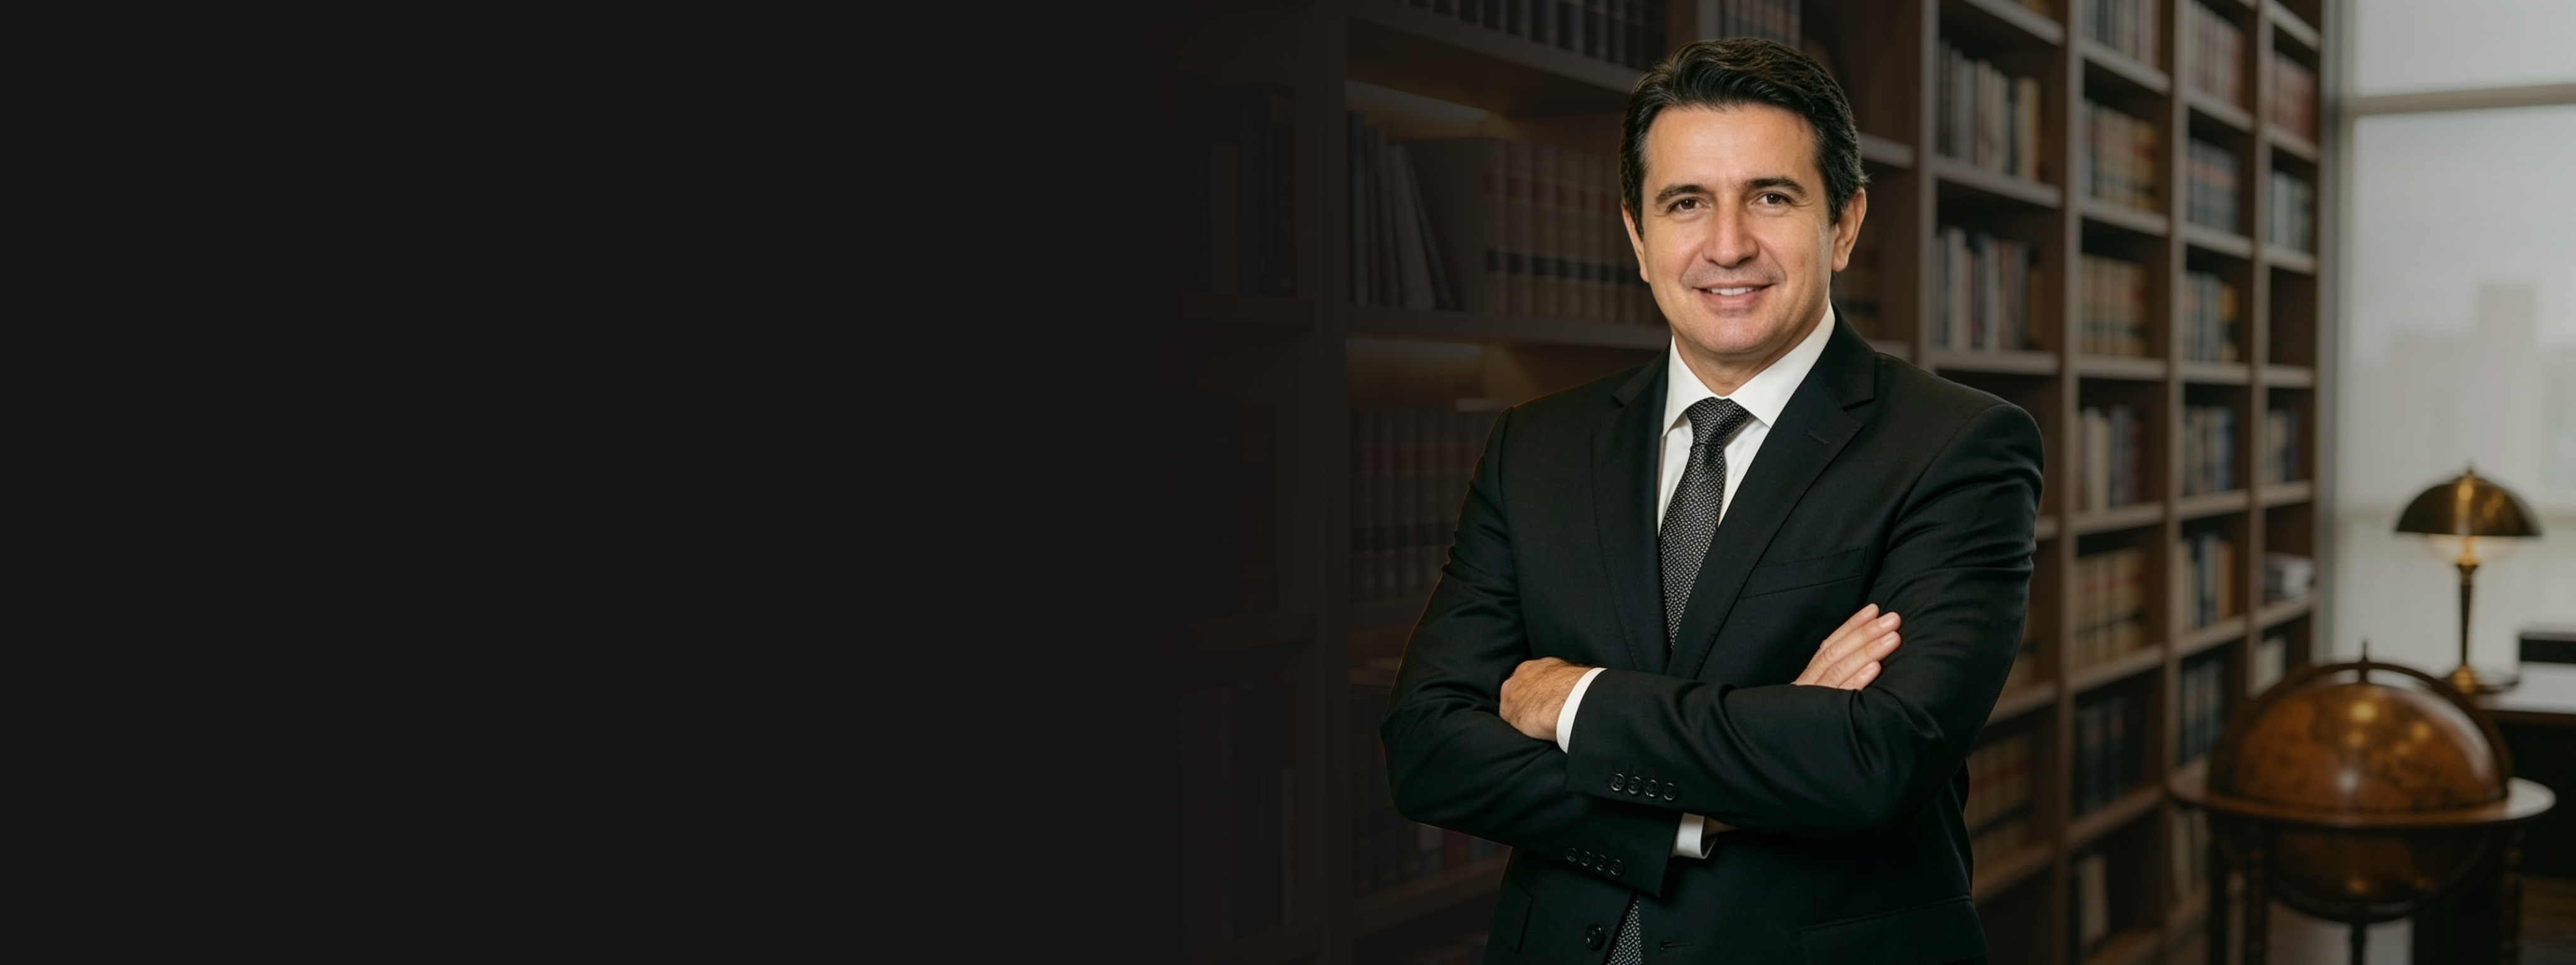
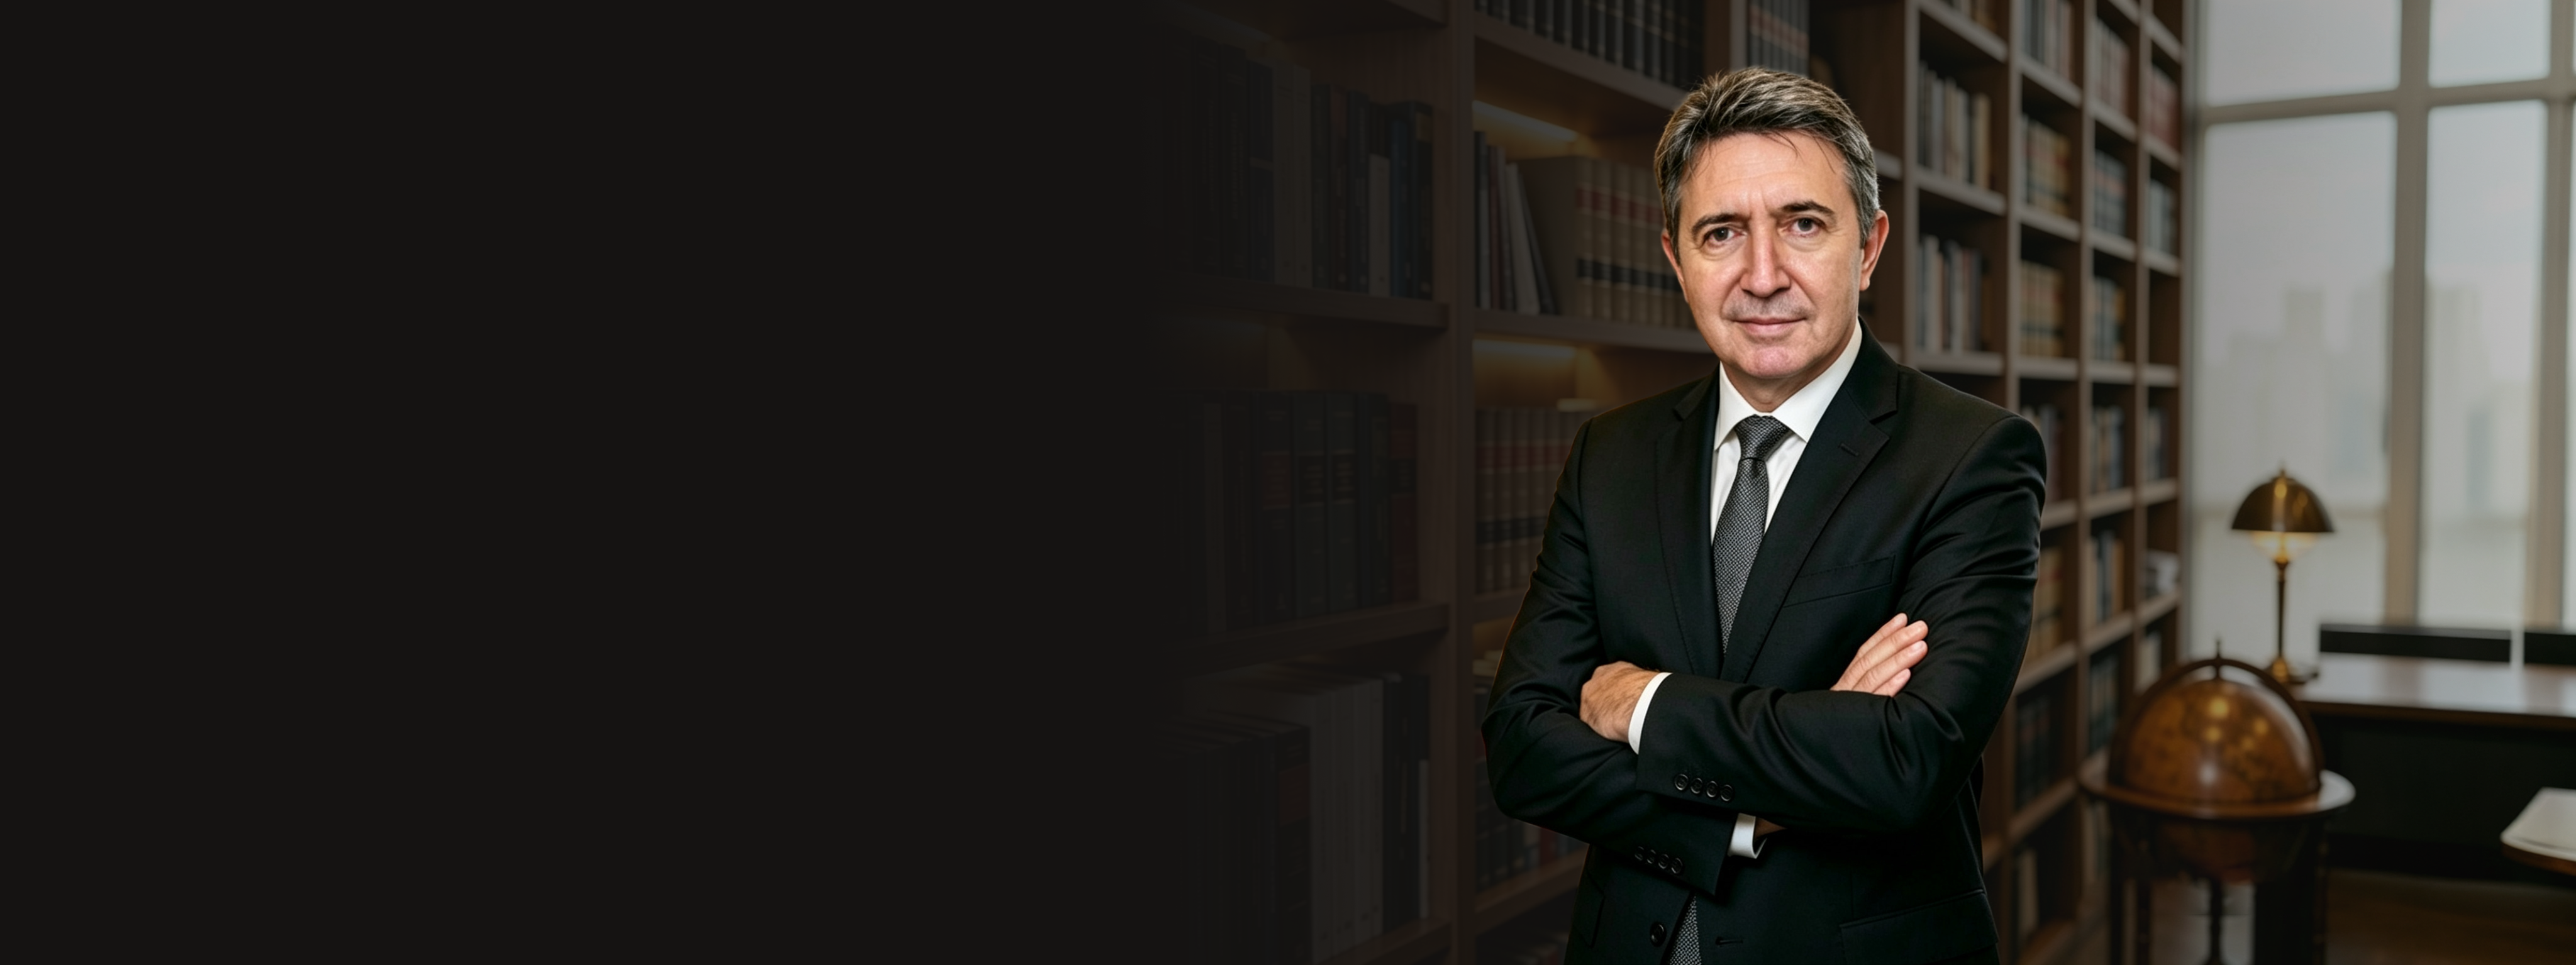
feat: atualiza imagens e adiciona foto da seção Tese
- Atualiza hero.jpg e diferenciais.jpg
- Adiciona novas imagens: tese.jpg, autor.jpg, hero2.jpg, diferenciais3.jpg
- Aponta seção Tese para img/tese.jpg
- Adiciona skill interface-design e skills-lock.json

Changed region(s): [[0.5312, 0.0, 1.0, 1.0], [0.625, 0.9492, 0.6562, 1.0], [0.6562, 0.9186, 0.6875, 0.9492]]

diff --git a/index.html b/index.html
@@ -1302,7 +1302,7 @@
   <!-- ===== TESE ===== -->
   <section id="tese">
     <div class="about-photo">
-      <img src="img/sobre.jpg" alt="Autor da tese da Perda de uma Chance">
+      <img src="img/tese.jpg" alt="Autor da tese da Perda de uma Chance">
     </div>
 
     <div class="about-content">

diff --git a/.agents/skills/interface-design/SKILL.md b/.agents/skills/interface-design/SKILL.md
@@ -1,0 +1,320 @@
+---
+name: interface-design
+description: Craft-first interface design for dashboards, admin panels, SaaS apps, tools, settings pages, data interfaces, and interactive products. Use when designing, building, reviewing, auditing, or refining product UI where visual craft, layout hierarchy, tokens, states, visual direction, or design-system consistency matter. Not for marketing pages, landing pages, campaigns, or brand-only work.
+---
+
+# Interface Design
+
+Build product interfaces with the craft of a top design team — Linear, Vercel, Stripe, Apple. The difference between those and generic output is not talent. It is that every decision was *decided*, the hierarchy is unmistakable, and a hundred small details are correct at once. This skill is how you get there.
+
+## Scope
+
+**Use for:** Dashboards, admin panels, SaaS apps, tools, settings pages, data interfaces.
+
+**Not for:** Landing pages, marketing sites, campaigns, brand-only work. Use a marketing/frontend design skill for those.
+
+This skill is self-contained: direction, visual hierarchy, design-system architecture, and the polish and motion essentials needed to ship production-grade UI all live here.
+
+---
+
+# The Problem
+
+You will generate generic output. Your training has seen thousands of dashboards, and the patterns are strong. You can follow this entire process — explore the domain, name a signature, state your intent — and still produce a template: warm colors on cold structures, friendly fonts on generic layouts.
+
+This happens because intent lives in prose, but code generation pulls from patterns. The gap between them is where defaults win. Process helps, but it doesn't guarantee craft. You have to catch yourself, and you have to know the concrete moves that defaults don't.
+
+**The bar:** If another AI, given a similar prompt, would produce substantially the same output, you have failed. Not different for its own sake — different because the interface emerged from *this* user, *this* task, *this* world. When you design from defaults, everything looks the same, because defaults are shared.
+
+---
+
+# Where Defaults Hide
+
+Defaults disguise themselves as infrastructure — the parts that feel like they just need to work, not be designed.
+
+- **Typography feels like a container.** But type isn't holding your design, it *is* your design. The weight of a headline, the personality of a label, the texture of a paragraph shape how the product feels before anyone reads a word. Reaching for your usual font means you're not designing.
+- **Navigation feels like scaffolding.** But navigation *is* the product — where you are, where you can go, what matters. A page floating in space is a component demo, not software.
+- **Data feels like presentation.** But a number on screen is not design. What does it *mean* to the person looking? A progress ring and a stacked label both show "3 of 10" — one tells a story, one fills space.
+- **Token names feel like implementation detail.** But `--ink` and `--parchment` evoke a world; `--gray-700` and `--surface-2` evoke a template. Someone reading only your tokens should guess what product this is.
+
+There are no structural decisions. Everything is design. The moment you stop asking "why this?" is the moment defaults take over.
+
+---
+
+# Intent First
+
+Before touching code, answer these. Keep it a compact working brief unless the direction needs user confirmation.
+
+- **Who is this human?** Not "users." The actual person. Where are they when they open this? What did they do 5 minutes ago, what will they do 5 minutes after? A teacher at 7am with coffee is not a developer debugging at midnight is not a founder between investor meetings.
+- **What must they accomplish?** The verb. Grade these submissions. Find the broken deployment. Approve the payment. The answer determines what leads, what follows, what hides.
+- **What should this feel like?** In words that mean something. "Clean and modern" means nothing — every AI says that. Warm like a notebook? Cold like a terminal? Dense like a trading floor? Calm like a reading app? This shapes color, type, spacing, density — everything.
+
+If the prompt is too vague to identify the human, task, and feel, ask one concise question. If context allows a responsible assumption, state it briefly and proceed.
+
+**Intent must be systemic.** Saying "warm" then using cold colors is not following through. If the intent is warm: surfaces, text, borders, accents, semantic colors, type — all warm. If dense: spacing, type size, information architecture — all dense. Check every token against the stated intent. For every choice — layout, color temperature, typeface, spacing scale, hierarchy — you must be able to say *why*. "It's common" or "it works" means you defaulted.
+
+---
+
+# Product Domain Exploration
+
+This is where defaults get caught — or don't. Generic path: Task type → visual template → theme. Crafted path: Task type → product domain → signature → structure + expression. The difference is time spent in the product's world before any visual thinking.
+
+**Produce all four before proposing any direction:**
+
+- **Domain** — concepts, metaphors, vocabulary from this product's world. Not features — territory. Minimum 5.
+- **Color world** — what colors exist *naturally* here? Not "warm" or "cool" — go to the actual world. If this product were a physical space, what would you see? List 5+.
+- **Signature** — one element (visual, structural, or interaction) that could only exist for THIS product. If you can't name one, keep exploring.
+- **Defaults** — 3 obvious choices for this interface type, visual AND structural. You can't avoid patterns you haven't named.
+
+**The test:** Read your proposal with the product name removed. Could someone identify what it's for? If not, explore deeper.
+
+---
+
+# Render It When You Can
+
+If an inline visual-rendering tool is available in the session (e.g. a `show_widget` / `visualize` tool that renders HTML or SVG inline in the conversation), prefer **showing** the design over describing it. A direction trapped in prose is a fraction as useful as one the person can look at. This is conditional: when no such tool is present (CI, headless agents, plain terminals), fall back to code, tokens, and a written proposal. Never assume the tool exists; check, then use it.
+
+Render at three moments:
+
+1. **Proposing a direction.** Alongside the Suggest + Ask block, render a small live specimen: the palette as actual swatches, the type scale in the real typeface, the surface-elevation steps as stacked cards, the signature element as a real component. The person should *see* "warm like a notebook," not read the words.
+2. **Designing a component.** Render the actual component (or a tight before/after, both variants side by side) so the craft decisions — spacing, borders, hierarchy, states — are visible, not asserted. Render the real states (default, hover, empty, error) where they matter.
+3. **Critiquing or auditing.** Render the current version and the improved version together so the gap is shown, not narrated.
+
+Rules when rendering:
+
+- The widget shows the **visual only**. All reasoning, the domain exploration, the rejected-defaults list, and the recommendation stay in your response text — never paste prose into the widget.
+- Match the rendering tool's own design-system contract (load its `read_me`/guidance if it has one). Use its theme variables so the specimen inherits light/dark mode and sits native in the host. Don't fight the host chrome.
+- The specimen must still pass the checks below. A rendered default is still a default — rendering is how craft gets *seen*, not a substitute for it.
+- This renders to the *conversation*, not the project. The actual implementation still lands in the codebase through normal edits.
+
+The point: collapse the loop between "here's my thinking" and "here's what it looks like" into a single message the person can react to.
+
+---
+
+# Visual Hierarchy & Composition
+
+The single biggest driver of "this looks designed" versus "this looks generated." Defaults produce *flatness* — everything the same size, weight, and spacing, so nothing leads and the eye has nowhere to go. Craft produces *hierarchy* — the eye knows instantly what matters. These are concrete moves, not vibes.
+
+## One focal point per view
+
+Every screen has one thing the user came to do. That thing dominates — through size, contrast, position, or the space around it. When everything competes equally, nothing wins and the interface reads like a parking lot. Before building, name the focal element out loud. Then make it win: bigger, higher-contrast, or ringed in whitespace. Demote everything else deliberately.
+
+## Type scale is a ratio, and weight beats size
+
+Don't pick sizes by feel. Pick a ratio and step it: ~1.2 (minor third) for dense/calm UI, ~1.25 for most product UI, ~1.333 for expressive. From a 14–16px body that yields a *visibly* distinct scale, not 15/16/17 mush. A 14px base at 1.25: `caption 11 · body 14 · h4 16 · h3 18 · h2 22 · h1 28 · display 44+`. Round to whole pixels and to your spacing grid.
+
+The Apple/Linear move: **weight and color do more hierarchy work than size.** A single 14px size holds three tiers through weight + opacity alone — `value: 600 / primary`, `label: 500 / secondary`, `meta: 400 / muted` — separating more cleanly than two regular weights two points apart. Build from three levers together (size, weight, color/opacity), never size alone. If you squint and can't tell headline from body from label, the hierarchy is too weak.
+
+Worked example — a metric, flat vs decided. *Flat:* `Revenue` / `$48,200` both 14px regular gray, three identical boxes, no focal point. *Decided:* `REVENUE` 11px/500/muted/tracked · `$48,200` 28px/600/primary/tabular-nums (the hero) · `↑12%` 12px/500/success. Same data, opposite legibility — the figure leads through size+weight+one accent, the label is demoted, secondary metrics drop to a lower tier.
+
+## Density is a decision, expressed in px
+
+Linear is tight; Stripe is airy. Neither is default — both are *chosen*, and the choice is the same number repeated everywhere. Decide the density up front and name the values: a tool panel at 12–16px padding feels workbench-tight; the same card at 24px feels like a brochure. The same number can be right in one context and lazy in another. Pick deliberately, then hold it.
+
+## Spatial rhythm — breathe unevenly
+
+Great interfaces don't space everything equally. Dense control zones give way to open content; heavy elements balance against light ones; the eye travels with purpose. Monotone layouts — same card size, same gap, same density everywhere — are the sound of no one deciding. Vary the rhythm on purpose: group tightly-related things, then put real air between groups.
+
+## Proportions speak
+
+A 280px sidebar next to full-width content says "navigation serves content." A 360px sidebar says "these are peers." The specific number declares what matters. If you can't articulate what a proportion is saying, it isn't saying anything. Choose widths and ratios that state a relationship.
+
+## Distribution and restraint (the "expensive" look)
+
+- **~60/30/10**: a dominant neutral surface, a secondary tone, and ~10% accent. Color is a scarce resource — most of the screen is structure.
+- **One accent, used with intention**, beats five colors used without thought. Gray builds structure; color *communicates* (status, action, identity). Unmotivated color is noise.
+- **Hierarchy through space and weight, not lines.** Reach for whitespace and tonal shift before borders and dividers. The most premium interfaces are mostly invisible structure.
+- **Optical sizing on large type**: tighten letter-spacing as type gets bigger (headings slightly negative tracking); loosen line-height on body for readability (~1.5). Tight type reads as crafted; default tracking on a 32px heading reads as a document.
+
+---
+
+# Craft Foundations
+
+## Subtle Layering (the backbone)
+
+Regardless of direction, this applies to everything. You should *barely notice the system working* — when you look at Vercel's dashboard you don't think "nice borders," you just understand the structure. Invisible craft is working craft.
+
+**Surface elevation.** Surfaces stack: a dropdown sits above a card sits above the page. Build a numbered system — base, then increasing levels. Each jump is only a few percentage points of lightness — e.g. dark mode base → +7% → +9% → +12%; light mode stays light and adds shadow instead. You can barely see one step in isolation, but stacked, the hierarchy emerges. Whisper-quiet shifts you feel rather than see.
+
+- **Sidebars:** same background as canvas, not a different color. Different colors fragment the space into "sidebar world" and "content world." A subtle border is enough.
+- **Dropdowns/popovers:** one level above their parent surface, or they blend in and layering is lost.
+- **Inputs:** slightly *darker* than surroundings, not lighter. Inputs are inset — they receive content. A darker fill signals "type here" without heavy borders.
+
+**Borders.** Should disappear when you're not looking for them, but be findable when you need structure. Low-opacity rgba blends with the background and defines an edge without demanding attention; solid hex borders look harsh by comparison. Dark mode lives around `rgba(255,255,255,0.06–0.12)`, light mode slightly higher. Build a progression — standard, softer separation, emphasis, focus-ring — and match intensity to the importance of the boundary.
+
+**The squint test:** blur your eyes at the interface. You should still perceive hierarchy — what's above what, where sections divide — but nothing should jump out. No harsh lines, no jarring shifts. Just quiet structure. Get this wrong and nothing else matters.
+
+## Infinite Expression
+
+Every pattern has infinite expressions — **no two interfaces should look the same.** A metric display could be a hero number, inline stat, sparkline, gauge, progress bar, comparison delta, or trend badge. Same sidebar width, same card grid, same icon-left-number-big-label-small metric boxes every time *signals AI-generated immediately* and is forgettable. Linear's cards don't look like Notion's; Vercel's metrics don't look like Stripe's. Same concepts, infinite expressions. Before building, ask: what's the ONE thing users do here, and what product solves a similar problem brilliantly?
+
+## Color Lives Somewhere
+
+Every product exists in a world, and that world has colors. Before reaching for a palette, walk into the physical version of this space — what materials, what light, what objects? Your palette should feel like it came FROM somewhere, not applied TO something. Temperature is one axis; also ask quiet or loud, dense or spacious, serious or playful, geometric or organic. A trading terminal and a meditation app are both "focused" — completely different kinds of focus.
+
+---
+
+# Before Writing Each Component
+
+**Every time** you write UI code — even small additions — state:
+
+```
+Intent:     [who is this human, what must they do, how should it feel]
+Hierarchy:  [the focal element, and how it wins — size / weight / contrast / space]
+Palette:    [colors from your exploration — and WHY they fit this world]
+Depth:      [borders / subtle shadows / layered — and WHY it fits the intent]
+Surfaces:   [your elevation scale — and WHY this temperature]
+Typography: [typeface + the size/weight/color levers — and WHY]
+Spacing:    [base unit + chosen density]
+```
+
+This checkpoint is mandatory. If you can't explain WHY for each, you're defaulting — stop and think.
+
+---
+
+# Use What Exists
+
+The most common way AI degrades a codebase: it hand-rolls what already exists. A bespoke `<div onClick>` "button" beside the project's real `Button`. A from-scratch dropdown with no keyboard support beside an installed primitive that has it. A 14-class Tailwind string copy-pasted onto every card instead of the component or token that's right there. Every one of these is the same failure — generating new instead of using what's present — and the result is inconsistent, inaccessible, and unmaintainable. **Before you build a control or style an element, look at what the project already gives you.**
+
+## Controls: native → primitive → hand-roll
+
+1. **Native HTML first** where it works. A `<button>` is a button; an `<a>` is a link; `<input type="text">`, `<dialog>`, `<details>` exist. Never `<div onClick>` something the platform already provides — you lose focus, keyboard, and semantics for free.
+2. **A battle-tested headless primitive** for anything stateful and hard to get right — select, combobox, dialog, popover, tooltip, dropdown menu, tabs, date picker. These ship keyboard navigation, focus management, ARIA, and collision/positioning that take days to reproduce correctly. Reach for what the ecosystem already trusts (e.g. Radix UI, React Aria, Ark, Headless UI, Vaul, `cmdk` in React; the equivalent accessible primitive in other frameworks), then style it to your direction. "Build custom" means *compose and style a primitive*, not write the behavior from scratch.
+3. **Hand-roll only as a genuine last resort** — no primitive fits, or there's no dependency budget. Then you owe the complete behavior contract: keyboard nav (arrow keys, Enter, Escape), focus trap/return, full ARIA roles and state, click-outside, and scroll-lock for overlays. A styled control missing these is broken, however good it looks.
+
+## Styling: system → component → token → utility
+
+1. **If the project has a design system, use it.** shadcn/`Button`, a CVA variant set, a theme, a component library — use `<Button variant="…">` and the existing variants before writing a one-off. Match the codebase's styling convention (Tailwind, CSS modules, CSS-in-JS), don't introduce your own.
+2. **When a styled element repeats, extract a component.** The same utility string on nine buttons is duplication, not design. One component (or one CVA/variant) owns it; call sites stay clean. Extract on the second real reuse, not the first.
+3. **Bind to semantic tokens, not hardcoded literals.** `bg-card border-border text-muted-foreground`, not `bg-white border-gray-200 text-gray-500`. Hardcoded `gray-200`/`#fff`/`px-4` raw values are the Tailwind form of random hex — they break theming and dark mode and signal no system. (See Token Architecture below.)
+4. **Inline utilities are for genuine one-offs** — a layout nudge used once. The tell of slop is the *same* long className sprayed everywhere; that's a missing component or token, not styling.
+
+---
+
+# Design System Essentials
+
+The token, spacing, and depth architecture beneath every craft decision.
+
+- **Token architecture.** Every color traces to a small set of primitives: foreground (text), background (surface), border, brand, semantic (destructive/warning/success). No random hex — everything maps to primitives.
+- **Text hierarchy — four levels.** Primary, secondary, tertiary, muted (default / supporting / metadata / disabled). Using only two means the hierarchy is too flat.
+- **Spacing.** Pick a base unit (4 or 8px), use multiples only. Scale by context: micro (icon gaps), component (within buttons/cards), section (between groups), major (between areas). Random values signal no system.
+- **Padding.** Symmetrical — if one side has a value, the others match unless content genuinely demands asymmetry.
+- **Depth — choose ONE and commit.** Borders-only (clean, technical, dense tools) · subtle shadows (approachable) · layered shadows (premium, dimensional) · surface-color shifts (tints, no shadows). Don't mix strategies.
+- **Border radius — a scale.** Small for inputs/buttons, medium for cards, large for modals. Don't mix sharp and soft randomly.
+- **Control tokens.** Inputs/selects/checkboxes get dedicated background, border, and focus tokens — don't reuse surface tokens, so you can tune controls independently. Native `<select>`/`<input type="date">` can't be styled — compose a headless primitive instead of hand-rolling one (see "Use What Exists").
+- **Dark mode.** Shadows are weak on dark — lean on borders. Desaturate semantic colors slightly. Same hierarchy system, inverted values. Keep one hue; shift only lightness across surfaces.
+
+---
+
+# Polish & Motion Essentials
+
+A hundred small details compound into "feels great." These are the highest-leverage ones — enough to ship genuinely polished UI.
+
+## Static polish
+
+- **Concentric radius.** Nested rounded elements: `outerRadius = innerRadius + padding`. Same radius on parent and child is the most common thing that makes UI feel off.
+- **Tabular numbers.** Any dynamic number (counters, prices, timers, table columns) gets `font-variant-numeric: tabular-nums` to prevent layout shift.
+- **Optical alignment.** When geometric centering looks off, fix it optically — icon-side padding ≈ text-side − 2px; nudge play triangles ~2px right.
+- **States are not optional.** Every interactive element needs default, hover, active, focus, disabled. Data needs loading, empty, error. Missing states feel broken — they're the fastest tell of an unfinished interface.
+- **Hit areas — 44×44px (WCAG), 40 at minimum.** If the visible control is smaller (a 20px checkbox), extend with a pseudo-element. Never let two hit areas overlap.
+- **Shadows over borders for elevation.** For cards/buttons/containers that lift, prefer a layered transparent `box-shadow` (it adapts to any background); keep real borders for dividers and input outlines. Light-mode lift stacks three layers — a 1px ring + two soft depths, e.g. `0 0 0 1px rgba(0,0,0,.06), 0 1px 2px -1px rgba(0,0,0,.06), 0 2px 4px rgba(0,0,0,.04)`; dark mode collapses to a single ring `0 0 0 1px rgba(255,255,255,.08)` (depth shadows don't read on dark).
+- **Text wrapping.** `text-wrap: balance` on headings; `text-wrap: pretty` on body/captions to kill orphans.
+- **Font smoothing.** `-webkit-font-smoothing: antialiased` on the root (macOS renders heavy otherwise).
+- **Image outlines.** 1px inset outline, pure `rgba(0,0,0,0.1)` light / `rgba(255,255,255,0.1)` dark — never a tinted near-black/white (reads as dirt on the edge).
+
+## Motion
+
+Motion should be felt, not watched. Fast, purposeful, and *never* in the way.
+
+- **Should it animate at all?** Actions repeated 100+×/day (keyboard shortcuts, command palette) get **no** animation — it makes them feel slow. Occasional surfaces (modals, drawers, toasts) get standard animation. Rare/first-run moments can add delight.
+- **Duration < 300ms** for UI. Button press 100–160ms; tooltips/popovers 125–200ms; dropdowns 150–250ms; modals/drawers 200–500ms. A 180ms dropdown feels more responsive than a 400ms one.
+- **Custom ease-out, never ease-in.** Built-in curves are too weak. Use `cubic-bezier(0.23, 1, 0.32, 1)` for entering/interactive; ease-in-out (`cubic-bezier(0.77, 0, 0.175, 1)`) for on-screen movement. `ease-in` delays the first frame — the moment the user is watching — and feels sluggish.
+- **Press feedback.** `transform: scale(0.97)` on `:active` (never below 0.95). Tactile confirmation the UI heard the click.
+- **Never animate from `scale(0)`.** Nothing appears from nothing — start at `scale(0.95)` + `opacity: 0`.
+- **Origin-aware popovers.** Popovers scale from their trigger (`transform-origin` set to the trigger), not center. Modals are the exception — they stay centered.
+- **Only animate `transform` and `opacity`** (GPU-composited). Animating width/height/margin/padding triggers layout + paint and drops frames. Never `transition: all` — name exact properties.
+- **Stagger entrances** 30–80ms between items for a natural cascade; keep exits faster and subtler than enters.
+- **Respect `prefers-reduced-motion`** — keep opacity/color transitions, drop movement.
+
+---
+
+# Avoid
+
+- **Harsh borders** — if borders are the first thing you see, they're too strong
+- **Dramatic surface jumps** — elevation should be whisper-quiet
+- **Flat hierarchy** — everything one size/weight; no clear focal point
+- **Monotone layout** — same card size, gap, and density everywhere
+- **Inconsistent spacing** — the clearest sign of no system
+- **Mixed depth strategies** — pick one and commit
+- **Missing states** — hover, focus, disabled, loading, empty, error
+- **Dramatic drop shadows** — subtle, not attention-grabbing
+- **Large radius on small elements**; **thick decorative borders**
+- **Gradients and color for decoration** — color should mean something
+- **Multiple accent colors** — dilutes focus
+- **Different hues for different surfaces** — keep one hue, shift only lightness
+- **Default typography** — system/Inter fonts and size-only hierarchy where a direction was set
+- **Structural hacks** — negative margins undoing parent padding, escape-hatch `calc()`, absolute positioning to dodge layout flow
+
+---
+
+# Workflow
+
+## Communication
+Be invisible. Don't announce modes or narrate process. Never say "I'm in ESTABLISH MODE" or "Let me check system.md." Jump into the work; state suggestions with reasoning.
+
+## Execution discipline
+Use this skill as a working discipline, not just advice. When editing UI:
+
+1. Inspect the existing app, design tokens, component patterns, and `.interface-design/system.md` if present.
+2. Make the domain exploration concrete before choosing layout, color, type, density, and navigation.
+3. For greenfield screens, major redesigns, or vague direction, consider a visual reference pass *if an image-generation tool is available* (skip otherwise — it's a companion, never the deliverable). Four modes: **direction board** (2–3 abstract mood/material/color explorations before code — no real UI), **UI reference** (medium-fidelity composition for a chosen direction), **paintover** (a stronger version of an existing screenshot), **raster asset** (empty-state art, textures — never icons/logos/charts). Always reject generic SaaS, illegible text, off-domain palettes; extract palette/density/proportions/signature, then build it in real code and verify in the browser.
+4. Patch the implementation, then run the relevant build/typecheck/tests when available.
+5. Verify visually for non-trivial UI. Use the inline render tool, a local browser, or screenshots at desktop and mobile widths; fix overlap, broken spacing, blank states, unreadable text, missing assets, and generic composition before presenting.
+6. Keep user-facing updates short. Don't expose long private design monologues — surface the useful recommendation or decision.
+
+## Suggest + Ask
+Lead with exploration and recommendation, then confirm:
+
+```
+Domain:     [5+ concepts from the product's world]
+Color world:[5+ colors that exist in this domain]
+Signature:  [one element unique to this product]
+Rejecting:  [default 1] → [alternative], [default 2] → [alternative], [default 3] → [alternative]
+Direction:  [approach connecting to the above]
+```
+
+Then ask: "Does that direction feel right?" If an inline render tool is available, render a live specimen of the direction in the same message — show the palette, type, and signature, don't just name them.
+
+## Build flow
+- **If `.interface-design/system.md` exists:** read it and apply — decisions are made.
+- **If not:** explore domain (all four outputs) → propose (reference all four) → confirm when the direction is ambiguous or costly to change → build → run the checks below → offer to save.
+
+## The checks (before showing)
+Run these against your output; if any fails, iterate before presenting.
+
+- **Swap test** — swap your typeface for the usual one, your layout for a standard template: would anything feel different? Where swapping wouldn't matter is where you defaulted.
+- **Squint test** — blur your eyes: hierarchy still readable? Nothing jumping out harshly?
+- **Signature test** — point to five specific elements where your signature appears. "The overall feel" doesn't count.
+- **Token test** — read your CSS variables aloud: do they belong to this product's world, or any project?
+
+---
+
+# After Completing a Task
+
+Always offer to save: "Want me to save these patterns for future sessions?" If yes, write to `.interface-design/system.md`:
+
+- Direction and feel
+- Depth strategy (borders/shadows/layered) and spacing base unit
+- Hierarchy decisions (type scale ratio, density values, focal pattern)
+- Key component patterns — add when a component is used 2+ times, is reusable, or has measurements worth remembering (not one-offs or prop variations). Record the values, e.g. `Button primary — 36px h · 12px 16px pad · 6px radius · 14px/500`.
+- Visual direction notes and selected references when an image pass shaped the design
+
+**Consistency checks.** If system.md defines values, hold to them: spacing on the grid, the declared depth strategy throughout, colors from the palette, documented patterns reused not reinvented. This compounds — each save makes future work faster and more consistent.
+
+---
+
+# Commands
+
+- `/interface-design:design-review` — strict craft + hierarchy review of a build, with an approval bar; renders before/after when possible
+- `/interface-design:design-deslop` — fast, diff-scoped pass that strips visual slop from a branch
+
+If a user asks for design status, audit, or pattern extraction in natural language: read `.interface-design/system.md` and summarize it, check UI files against it for drift, or scan for repeated spacing/radius/color/component values and propose a system.md — perform the equivalent inline.